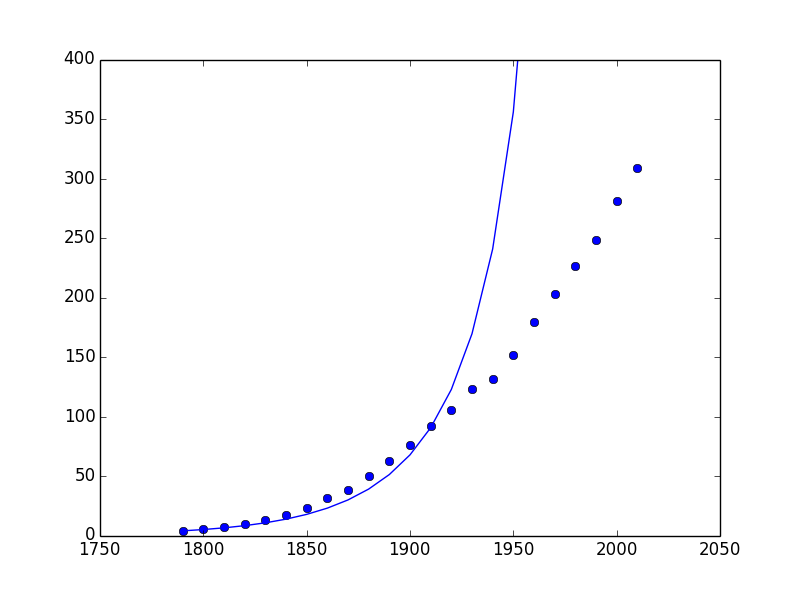
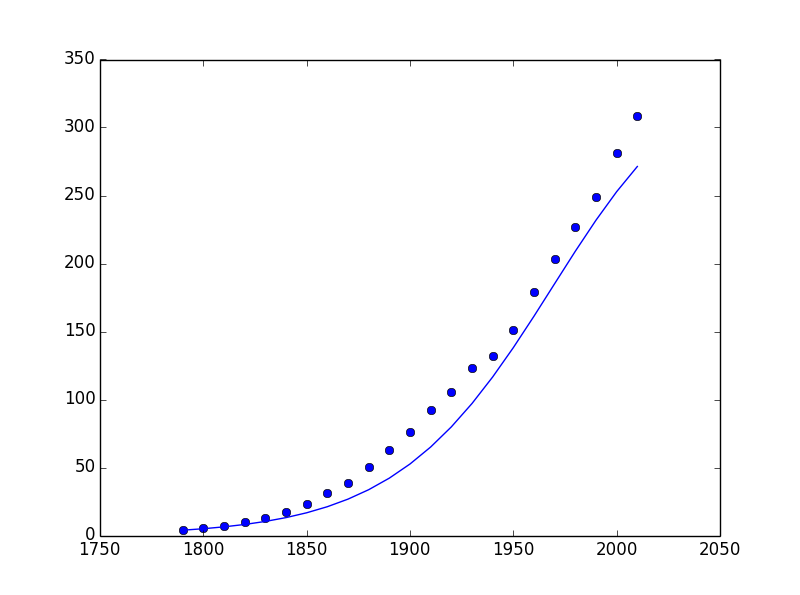
qualtative analysis

diff --git a/01ModelingViaDE.md b/01ModelingViaDE.md
@@ -155,20 +155,19 @@ $$\frac{dp}{dt}\bigg|_{t=10}\approx\frac{p(20)-p(0)}{20}= 0.165 $$
 ![01-03rgr](images/01-03rgr.png)    
 
 得到人口的相对增长率函数为:$$\frac{1}{p}\frac{dp}{dt}=0.02808 + 0.000082111\times p$$  
-因此得到微分方程：$$\frac{dp}{dt}=0.02808p+0.000082111\times p^2$$   
+因此得到罗吉斯特微分方程：$$\frac{dp}{dt}=0.02808p+0.000082111\times p^2$$   
 该微分方程的分析解法留给后面介绍，先用欧拉方法试一试该微分方程的近似效果如何：  
 ```
     # euler's method
     from sympy.abc import p
     pred = [3.9]
-    rgrf = intercept*p-slope*p**2
+    logistModel = intercept*p+slope*p**2
     # step is 10
     for i in range(22):
-        pred.append(rgrf.subs(p,pred[-1])*10+pred[-1])
+        pred.append(logistModel.subs(p,pred[-1])*10+pred[-1])
     
     # make a plot
     plt.plot(Year,USPop,'bo',Year,pred)
-    plt.axis(ymax = 400)
 ```
 ![01-04euler](images/01-04euler.png)  
 
@@ -176,8 +175,32 @@ $$\frac{dp}{dt}\bigg|_{t=10}\approx\frac{p(20)-p(0)}{20}= 0.165 $$
 
 ##**4 定性分析（Qualitative analysis）**    
 
+3中得到人口的相对增长率，$$\frac{1}{p}\frac{dp}{dt}=k+mp$$，从函数图上看，回归线$$k+mp$$交$$p$$轴于点$$N$$。   
++ 在人口$$p<N$$时，增长率是正的，表示人口将增加    
++ 在人口$$p>N$$时，增长率是负的，表示人口将减少     
 
+用$$N$$和$$p$$表示$$m$$并带入罗吉斯特模型获得：  
+$$\frac{1}{p}\frac{dp}{dt}=k-\frac{k}{N}p$$     
+简单变换得到罗吉斯特微分方程：  
+$$\frac{dp}{dt}=kp-\frac{k}{N}p^2$$     
+注意到这是一个关于$$p$$的二次函数，二次项前系数为负，即开口朝下：  
+```
+    pdomain = np.array(range(-20,380,10))
+    plt.plot(pdomain, [logistModel.subs(p,pval) for pval in pdomain])
+    plt.axhline(0,0,1,linewidth = 2, color = 'black')
+    plt.axvline(0,0,1,linewidth = 2, color = 'black')
+    plt.text(342,0.001,'N',fontsize = 18,color="black")
+    plt.text(-20,2,r'$\frac{dp}{dt}$',fontsize = 18,color="black")
+```  
+![01-05parabola](images\01-05parabola.png)
 
+从定性的角度去分析人口随时间的变化：  
+1. $$p(0)=0\implies \forall t >0, p(t) = 0$$
+2. $$p(0)=N\implies \forall t >0, p(t) = N$$ 
+3. $$0 < p(0) <N \implies \lim_{t\rightarrow \infty}p(t) = N$$  
+4. $$p(0)>N \implies \lim_{t\rightarrow \infty}p(t) = N$$ 
+
+因此，$$N$$也被称为**承载能力（carrying capacity）**    
 
 
 
